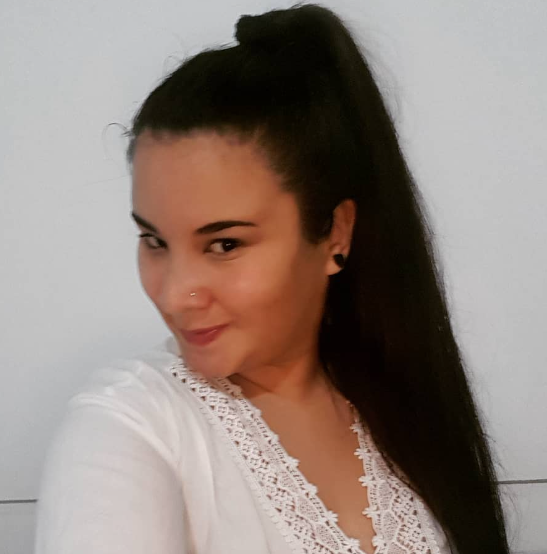
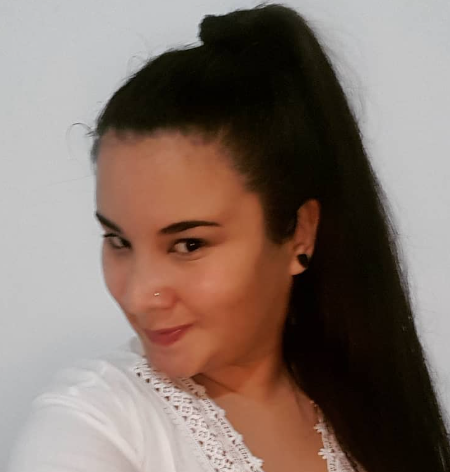
cards con bootstrap

diff --git a/html/profes.html b/html/profes.html
@@ -11,7 +11,8 @@
     <link
         href="https://fonts.googleapis.com/css2?family=Cormorant:wght@300;400&family=Gideon+Roman&family=Libre+Franklin:wght@500&display=swap"
         rel="stylesheet">
-    <link href="https://cdn.jsdelivr.net/npm/bootstrap@5.2.3/dist/css/bootstrap.min.css" rel="stylesheet" integrity="sha384-rbsA2VBKQhggwzxH7pPCaAqO46MgnOM80zW1RWuH61DGLwZJEdK2Kadq2F9CUG65" crossorigin="anonymous">
+    <link href="https://cdn.jsdelivr.net/npm/bootstrap@5.2.3/dist/css/bootstrap.min.css" rel="stylesheet"
+        integrity="sha384-rbsA2VBKQhggwzxH7pPCaAqO46MgnOM80zW1RWuH61DGLwZJEdK2Kadq2F9CUG65" crossorigin="anonymous">
     <link rel="stylesheet" type="text/css" href="../css/style.css">
     <link rel="shorcut icon" href="../img/favicon.png">
     <title>Profesores</title>
@@ -72,37 +73,42 @@
 
         <h1 class="cartelito">Nuestras profes</h1>
 
-        <div class="card_profe">
-            <h2 class="card_titulo">Karina Soledad Obregon</h2>
-            <img class="card_foto" src="../img/karina.PNG" alt="Karina" />
-            <p class="card_parrafo">Doy clases de inglés desde los 15 años, soy bilingüe en inglés y hablo un poco
-                de
-                portugués y finlandés.
-                Soy técnico hotelero y estoy a la mitad de la carrera de licenciatura en turismo, llevo 10 años
-                trabajando con
-                turismo extranjero en hoteles y otras empresas.
-            </p>
-        </div>
-
-        <div class="card_profe">
-            <h2 class="card_titulo">Natalia</h2>
-            <img class="card_foto" src="../img/natalia.PNG" alt="Natalia" />
-            <p class="card_parrafo">Lorem ipsum dolor sit amet consectetur adipisicing elit. Velit similique
-                voluptate
-                sapiente ut nihil, placeat impedit, nostrum enim molestiae quibusdam eveniet totam in incidunt
-                aliquid
-                dolore dolores eaque laudantium molestias?
-            </p>
-        </div>
-
-        <div class="card_profe">
-            <h2 class="card_titulo">Ana</h2>
-            <img class="card_foto" src="../img/ana.PNG" alt="Ana" />
-            <p class="card_parrafo">Lorem ipsum dolor sit amet, consectetur adipisicing elit. Vero esse quis totam
-                impedit veniam sapiente repellat aut voluptatum explicabo cupiditate voluptates eveniet, vel, at
-                maxime
-                blanditiis modi eaque ipsum doloribus?
-            </p>
+        <div class="row row-cols-1 row-cols-md-3 g-4">
+            <div class="col">
+                <div class="card card_profe">
+                    <img class="card_foto" src="../img/karina.PNG" class="card-img-top" alt="Karina">
+                    <div class="card-body">
+                        <h5 class="card-title card_titulo">Karina</h5>
+                        <p class="card-text card_parrafo">Doy clases de inglés desde los 15 años, soy bilingüe en inglés
+                            y hablo un poco de portugués y finlandés.
+                            Soy técnico hotelero y estoy a la mitad de la carrera de licenciatura en turismo, llevo 10
+                            años trabajando con turismo extranjero en hoteles y otras empresas.</p>
+                    </div>
+                </div>
+            </div>
+            <div class="col">
+                <div class="card card_profe">
+                    <img class="card_foto" src="../img/natalia.jpg" class="card-img-top" alt="Natalia">
+                    <div class="card-body">
+                        <h5 class="card-title card_titulo">Natalia</h5>
+                        <p class="card-text card_parrafo">Soy Lic. en administracion UBA, viví 2 años en Reino Unido y
+                            viaje por varios países de habla inglesa. Esta experiencia me dio la oportunidad de poner en
+                            práctica todo lo aprendido de este idioma, durante más de 20 años. Siempre busco nuevas y
+                            divertidas maneras de enseñar inglés.</p>
+                    </div>
+                </div>
+            </div>
+            <div class="col">
+                <div class="card card_profe">
+                    <img class="card_foto" src="../img/ana.jpg" class="card-img-top" alt="Ana">
+                    <div class="card-body">
+                        <h5 class="card-title card_titulo">Ana</h5>
+                        <p class="card-text card_parrafo">Soy del interior de Córdoba. Estoy haciendo una licenciatura
+                            en antropologia, estudio inglés hace 11 años porque me encanta. </br>Doy clases de inglés
+                            desde los 16 años.</br></br></p>
+                    </div>
+                </div>
+            </div>
         </div>
 
     </main>
@@ -116,7 +122,9 @@
         </ul>
     </footer>
     <script src="https://kit.fontawesome.com/606f26ee8c.js" crossorigin="anonymous"></script>
-    <script src="https://cdn.jsdelivr.net/npm/bootstrap@5.2.3/dist/js/bootstrap.bundle.min.js" integrity="sha384-kenU1KFdBIe4zVF0s0G1M5b4hcpxyD9F7jL+jjXkk+Q2h455rYXK/7HAuoJl+0I4" crossorigin="anonymous"></script>
+    <script src="https://cdn.jsdelivr.net/npm/bootstrap@5.2.3/dist/js/bootstrap.bundle.min.js"
+        integrity="sha384-kenU1KFdBIe4zVF0s0G1M5b4hcpxyD9F7jL+jjXkk+Q2h455rYXK/7HAuoJl+0I4"
+        crossorigin="anonymous"></script>
 </body>
 
 </html>

diff --git a/css/style.css b/css/style.css
@@ -130,27 +130,26 @@ td{
   background-color: rgb(250, 215, 234);
   margin-left: auto;
   margin-right: auto;
+  padding: 10px;
 }
 
 .card_profe{
-  width: 30%;
   padding: 10px;
   border-radius: 10px;
-  display: inline-block;
-  height: 700px;
-  margin-inline: 1.5%;
-  margin-top: 0;
+  height: max-content;
 }
 
 .card_titulo{
   background-color: rgb(250, 215, 234);
   text-align: center;
   margin-bottom: 0px;
+  font-family: 'Gill Sans', 'Gill Sans MT', Calibri, 'Trebuchet MS', sans-serif;
 }
 
 .card_foto{
-  width: 100%;
-  margin-bottom: 0px;
+  border-radius: 2%;
+  border-style:dotted;
+  border-color: rgb(250, 215, 234);
 }
 
 .card_parrafo{
